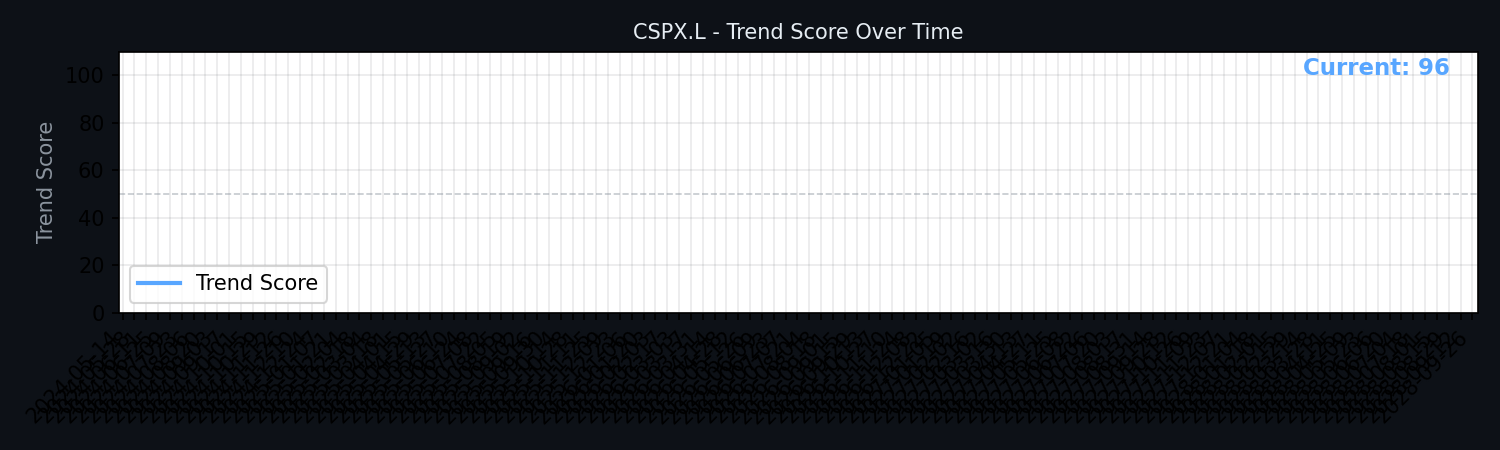
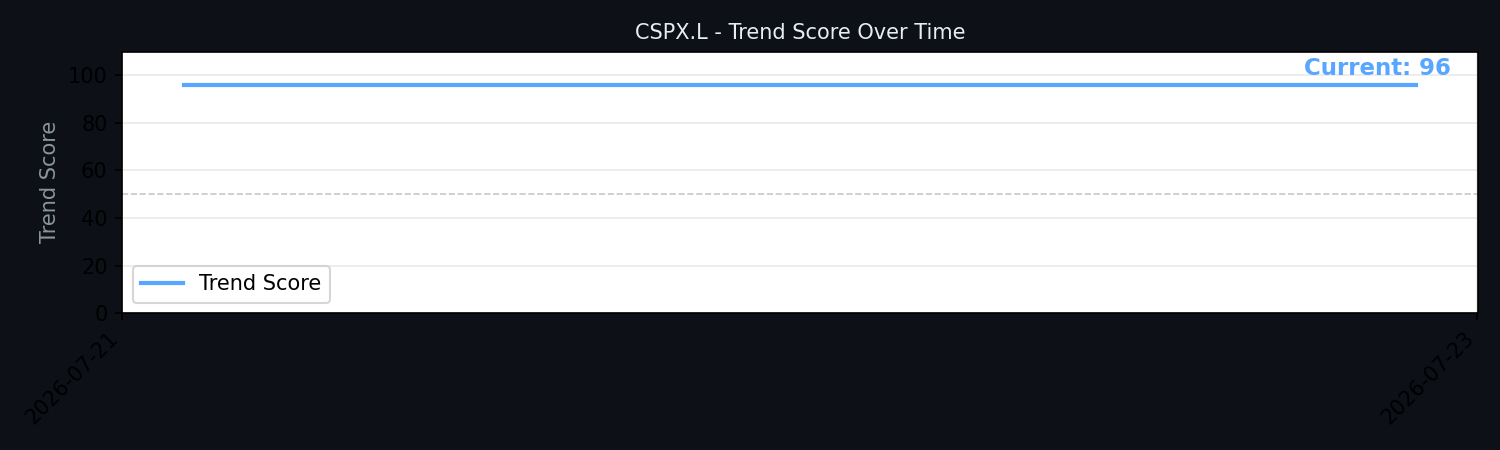
chore: update dashboard snapshot

diff --git a/docs/index.html b/docs/index.html
@@ -62,12 +62,12 @@
 </head>
 <body>
     <h1>📊 Quant Trade Bot</h1>
-    <div class="subtitle">Daily snapshot · 2026-07-22 20:36 (GMT+8)</div>
+    <div class="subtitle">Daily snapshot · 2026-07-23 08:01 (GMT+8)</div>
 
     <div class="card">
         <h2>CSPX (iShares Core S&P 500 UCITS ETF)</h2>
         <img src="trend_CSPX.L.png" alt="Trend Score History" style="width:100%; max-width:900px; border-radius:8px; margin-bottom:20px; border:1px solid #30363d;">
-        <div class="row"><span class="label">Latest Close</span><span class="value">$805.10</span></div>
+        <div class="row"><span class="label">Latest Close</span><span class="value">$808.04</span></div>
         <div class="row"><span class="label">Trend Score</span><span class="value">96/100</span></div>
         <div class="row"><span class="label">Momentum Score</span><span class="value">39/100</span></div>
         <div class="row"><span class="label">Historical Match</span><span class="value">248 occurrences</span></div>
@@ -78,16 +78,16 @@
     <div class="card">
         <h2>QQQM (Invesco NASDAQ 100 ETF)</h2>
         <img src="trend_QQQM.png" alt="Trend Score History" style="width:100%; max-width:900px; border-radius:8px; margin-bottom:20px; border:1px solid #30363d;">
-        <div class="row"><span class="label">Latest Close</span><span class="value">$291.90</span></div>
+        <div class="row"><span class="label">Latest Close</span><span class="value">$290.42</span></div>
         <div class="row"><span class="label">Trend Score</span><span class="value">80/100</span></div>
-        <div class="row"><span class="label">Momentum Score</span><span class="value">29/100</span></div>
-        <div class="row"><span class="label">Historical Match</span><span class="value">26 occurrences</span></div>
+        <div class="row"><span class="label">Momentum Score</span><span class="value">32/100</span></div>
+        <div class="row"><span class="label">Historical Match</span><span class="value">32 occurrences</span></div>
         <div class="row"><span class="label">90-day Win Rate</span><span class="value">100.0%</span></div>
         <div class="row"><span class="label">Suggested Action</span><span class="value"><span class="badge badge-buy">✅ Historically high win rate for this structure. Consider maintaining or slightly increasing your DCA.</span></span></div>
     </div>
 
     <div class="footer">
-        Updated: 2026-07-22 20:36 (GMT+8) · <a href="https://t.me/ETF_Trend_Monitor" target="_blank">Telegram Channel</a> · <a href="https://github.com/kzyxx11/quant_trade_bot" target="_blank">GitHub</a>
+        Updated: 2026-07-23 08:01 (GMT+8) · <a href="https://t.me/ETF_Trend_Monitor" target="_blank">Telegram Channel</a> · <a href="https://github.com/kzyxx11/quant_trade_bot" target="_blank">GitHub</a>
     </div>
 </body>
 </html>